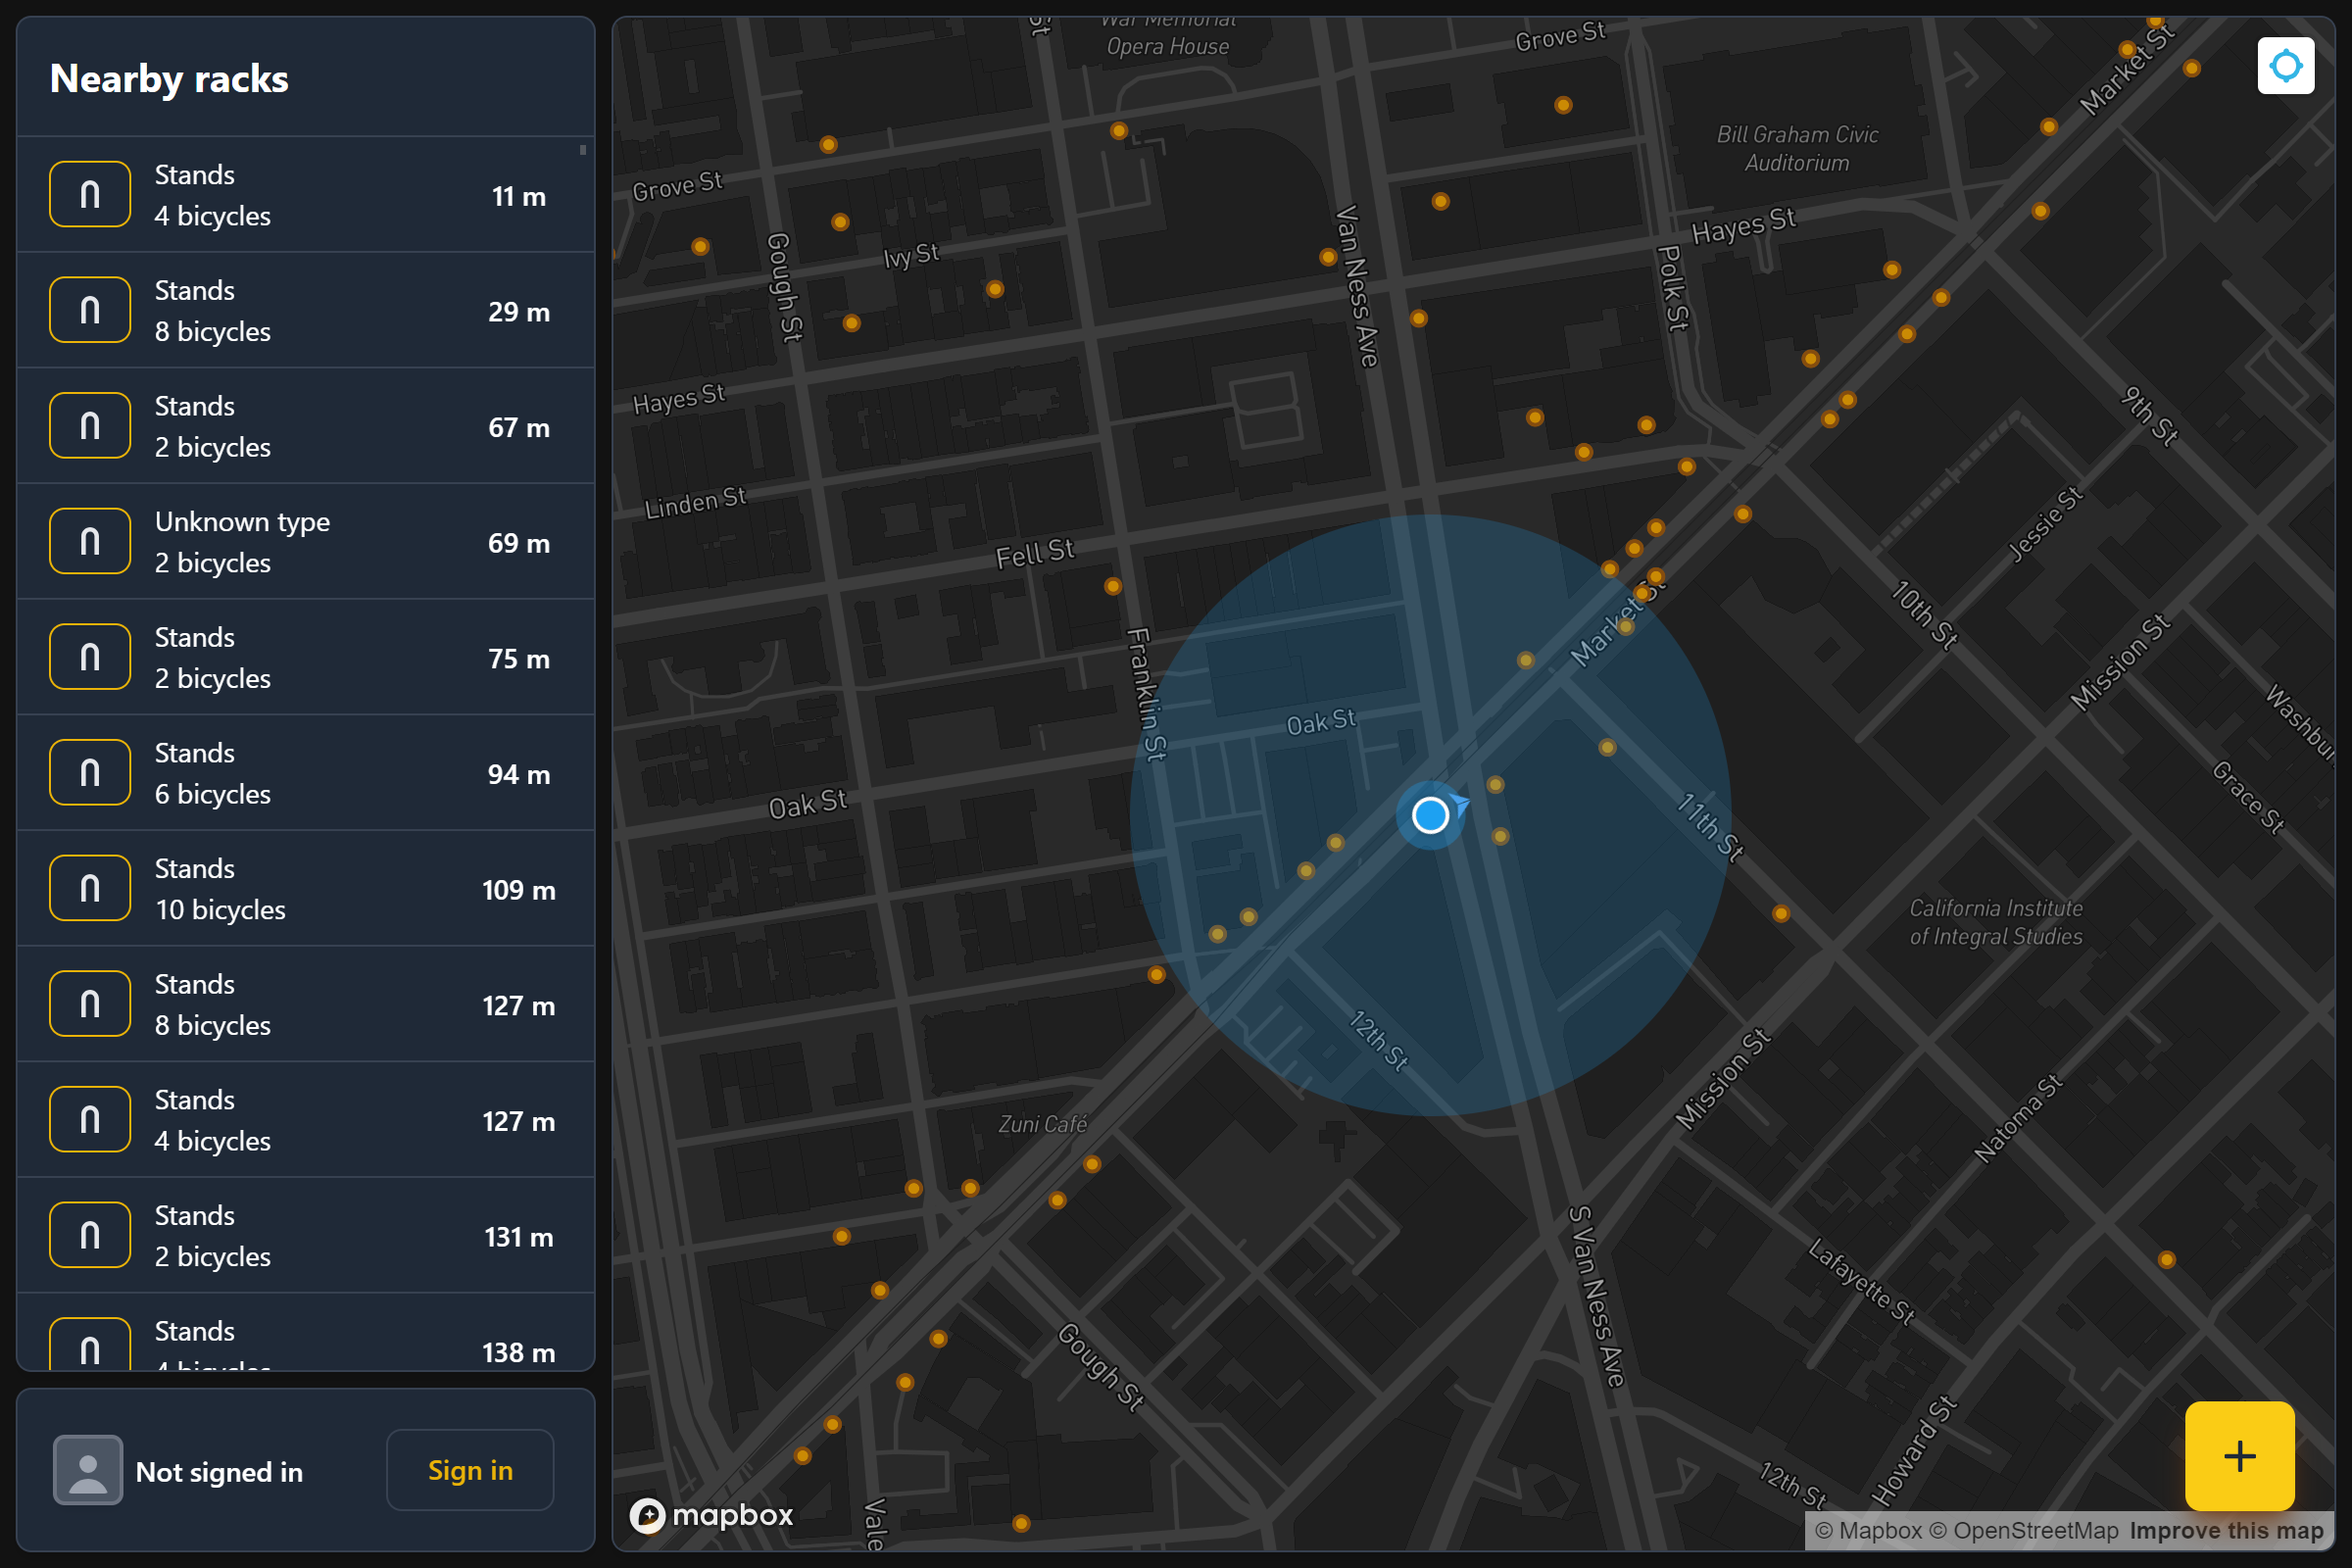
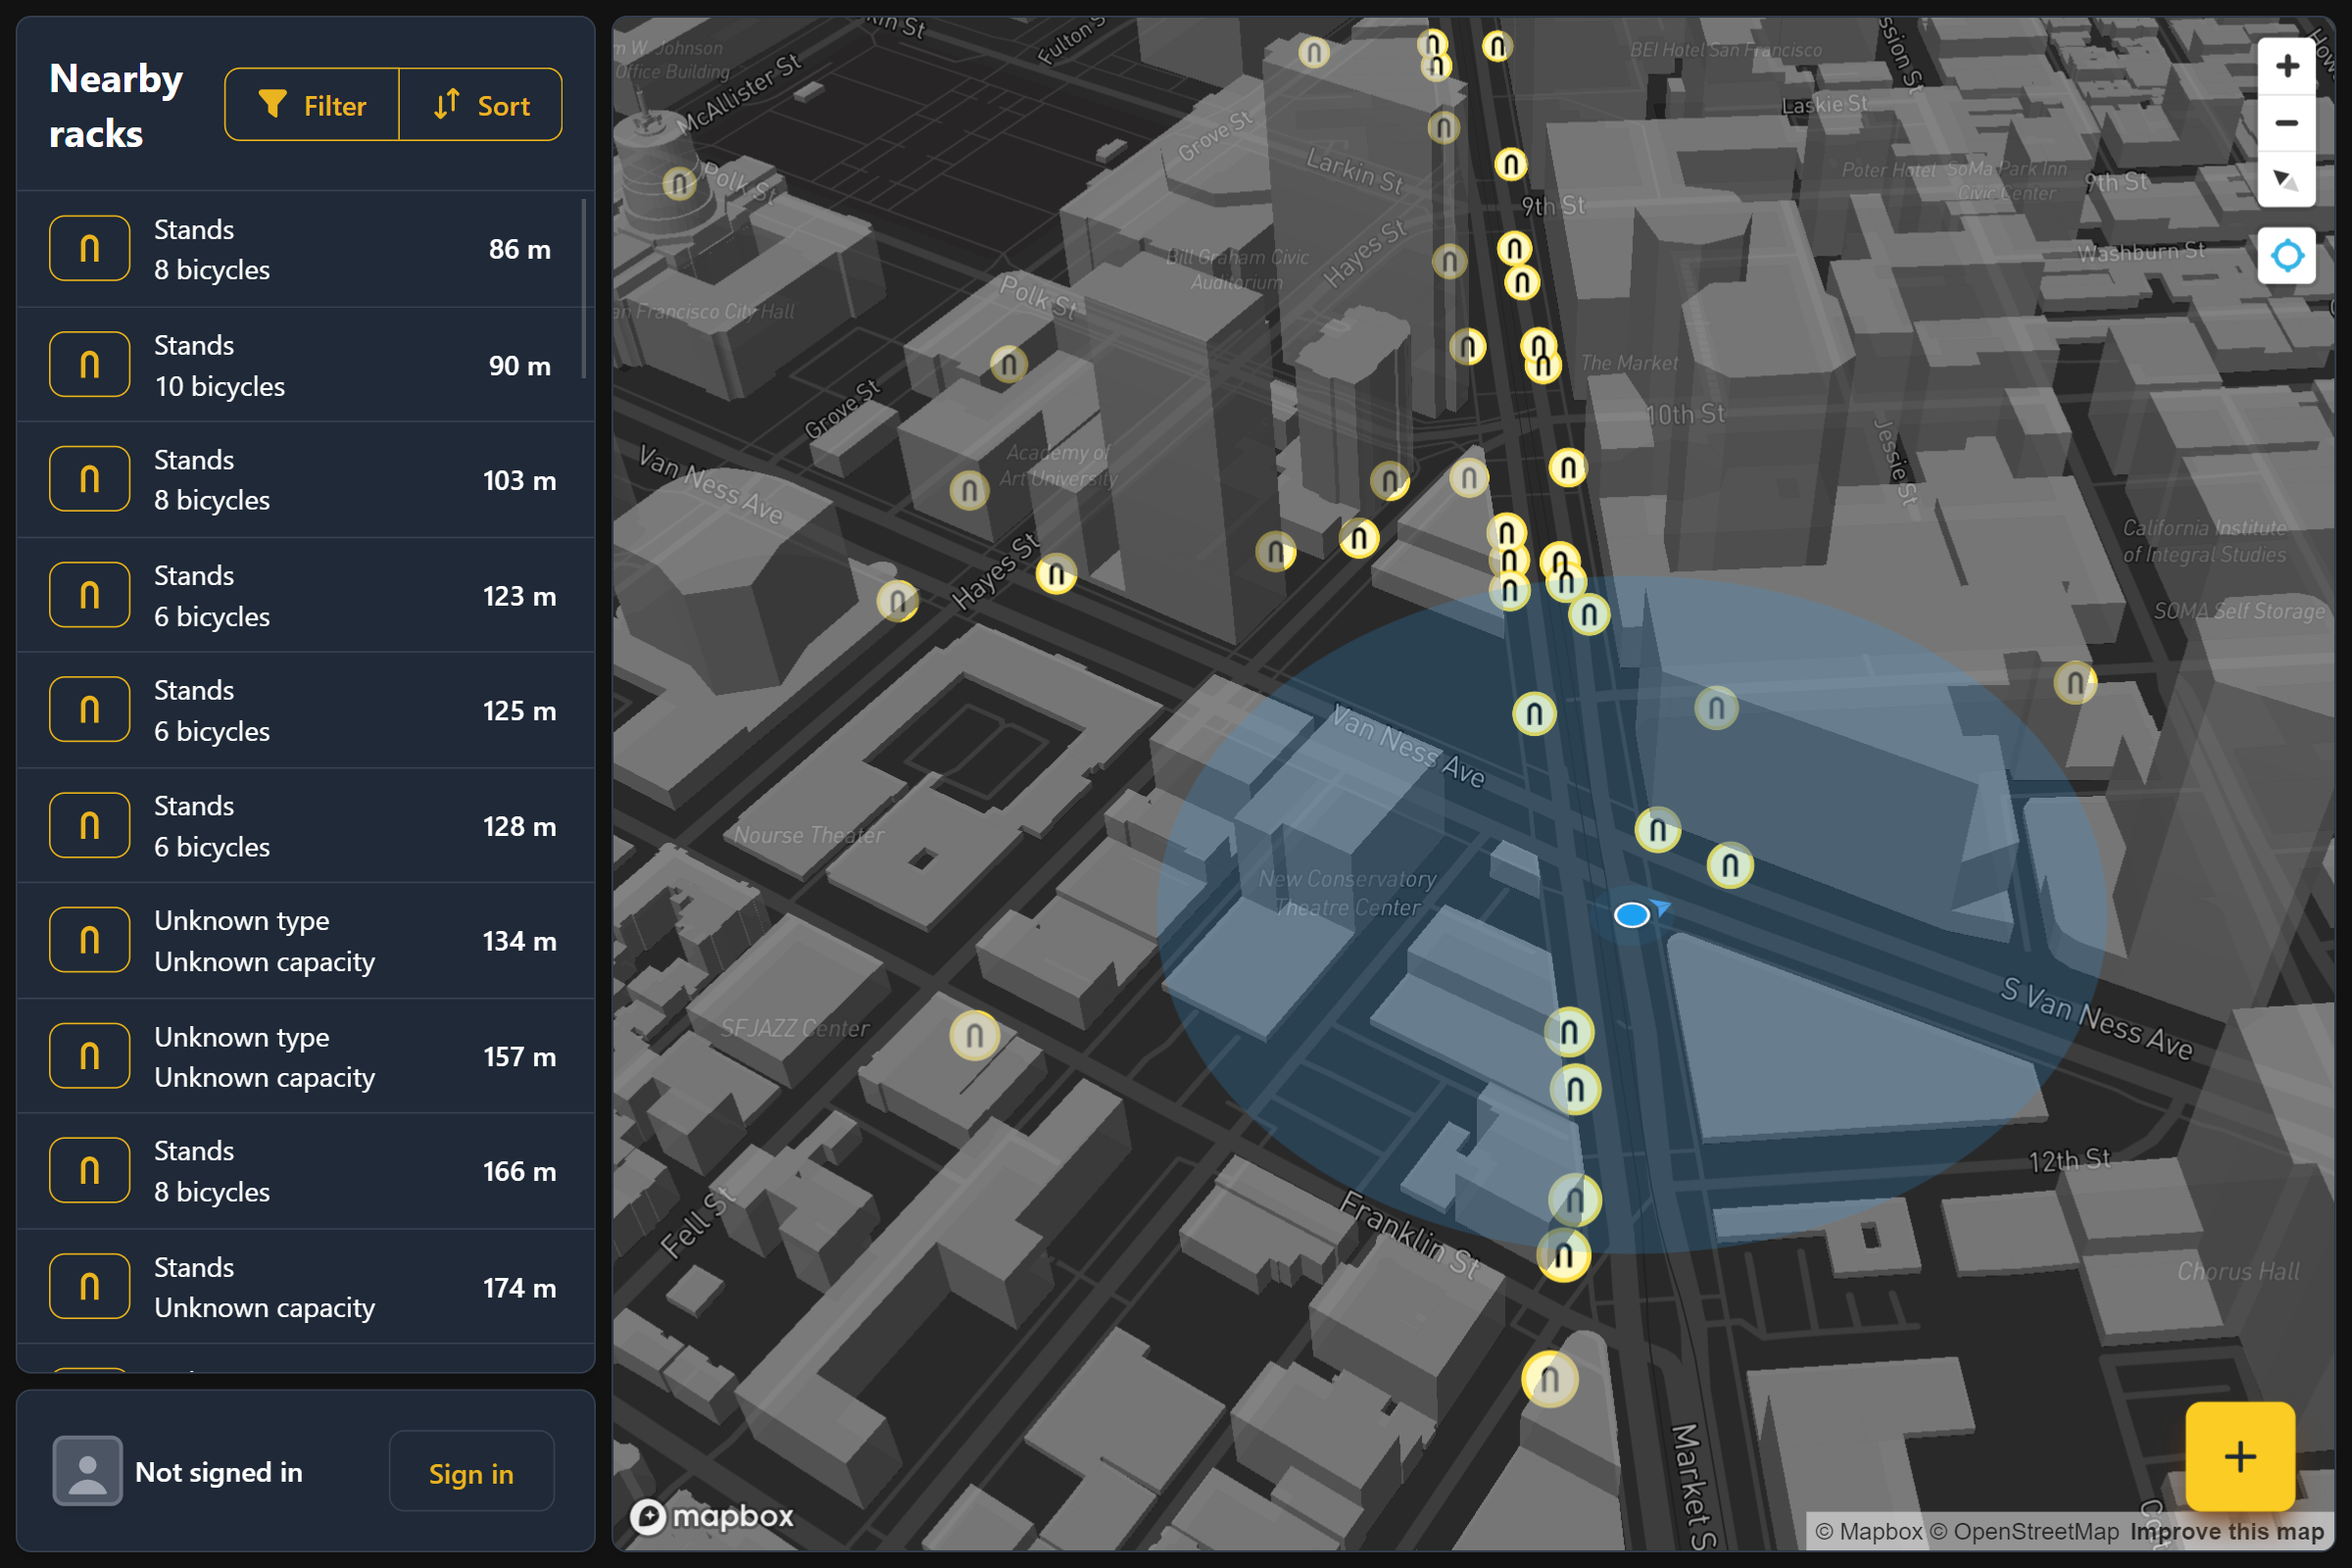
Update rack finder images

diff --git a/client/src/store/index.ts b/client/src/store/index.ts
@@ -250,7 +250,7 @@ const state = {
       url: 'https://rackfinder.netlify.app',
       github: 'https://github.com/alexwohlbruck/rack-finder',
       showPreview: true,
-      images: ['light.png', 'contribute.png', 'dark.png'],
+      images: ['light.png', 'contribute.png', 'dark.png', 'filter.png'],
       tags: [
         'html',
         'css',
